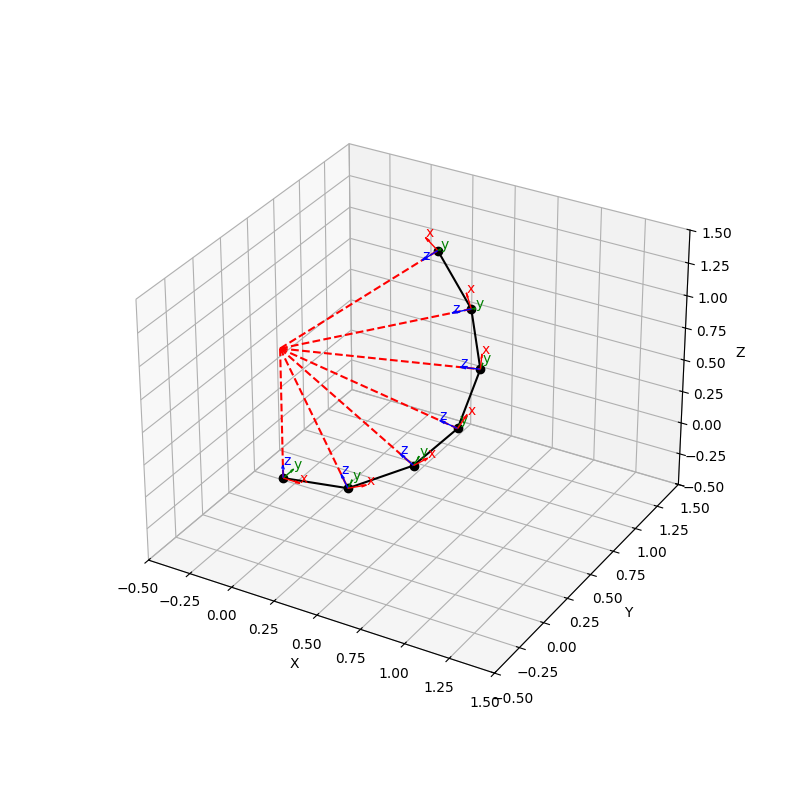
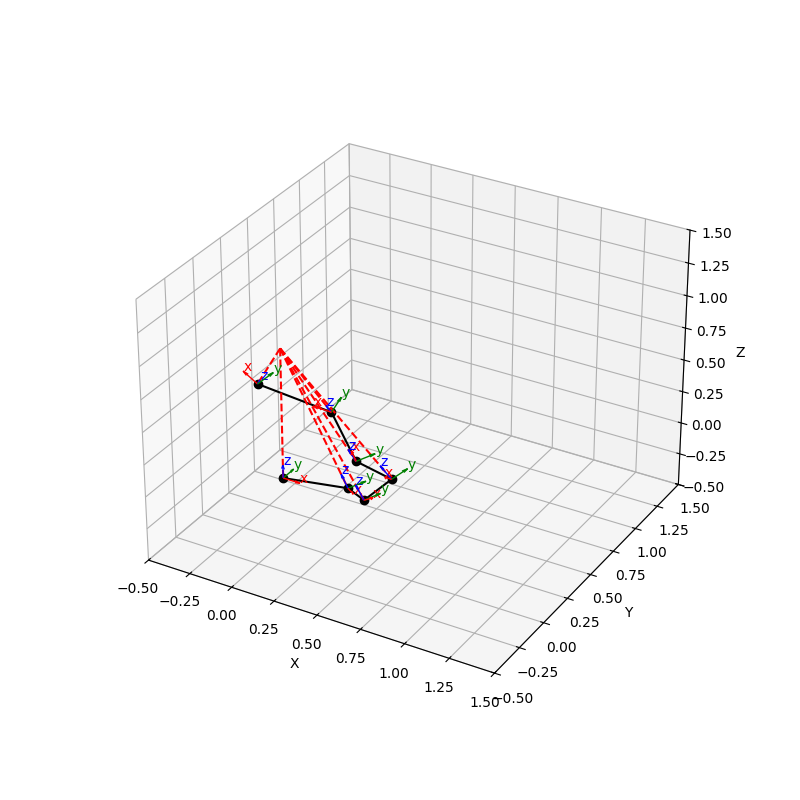
theta used as the external angle instead of the internal angle (as previously) to allow modelling of more extensive folding from state 2 (fin folded into foot) to state 3 (fully folded fin)

diff --git a/fin_transformation.py b/fin_transformation.py
@@ -7,12 +7,11 @@ Theory taken from: FORWARD KINEMATICS: THE DENAVIT-HARTENBERG CONVENTION
 https://users.cs.duke.edu/~brd/Teaching/Bio/asmb/current/Papers/chap3-forward-kinematics.pdf
 
 TODO
-Update geometric parameters calculated automatically (including fold angle) when number of rays is changed
 Folding to state 3
 Replace identity matrix with A0
 Add calculation of base coordinates to paper and diagram
+Model description with sketch in README 
 Do the working to check matrix product is correct
-Model description with sketh in README 
 """
 
 """
@@ -36,11 +35,10 @@ division_factor = 8
 Spacing between each toe 
 Choose one, comment out the other
 """
-# Equal spacing between each toe 
-spacing = n_rays   
+spacing = n_rays  # Equal spacing between each toe 
 
 # If division factor is greater, spacing used for this number of rays (smaller angle between toes)
-# spacing = division_factor
+spacing = division_factor
 
 
 def plot_fin(positions, rotations, fin_base, scale=0.5):
@@ -210,17 +208,27 @@ def transformation_matrix(beta, a, gamma, theta):
 def generate_transformation_params(beta, a, gamma, theta, spacing):
     """
     Generates the individual joint parameters to describe the fin folding 
+    from State 1 (fully open) to State 2 (folded)
     """
+    # # Set angles for inner and outer folds
+    # inner_angle = theta
+    # # outer_angle = -inner_angle * 1/2
+
+    # # Calculate outer angle to create equal spacing between fin rays  
+    # scale_factor = 1 - (4 / spacing)
+    # outer_angle = -inner_angle * scale_factor
+
     # Set angles for inner and outer folds
-    inner_angle = theta
-    outer_angle = -inner_angle * 1/2
+    outer_angle = theta
+    # outer_angle = -inner_angle * 1/2
 
     # Calculate outer angle to create equal spacing between fin rays  
-    scale_factor = 1 - (4 / n_rays)
-    scale_factor = 1 - (4 / (division_factor))
     scale_factor = 1 - (4 / spacing)
-    outer_angle = -inner_angle * scale_factor
-
+    inner_angle = -outer_angle / scale_factor
+    print('inner angle =', inner_angle)
+    # if round(inner_angle, 5) == round(pi, 5):
+    if inner_angle <= -pi:
+        inner_angle = -pi
 
     # Joint parameters for first two joints
     params = [(beta, a, gamma, inner_angle),
@@ -233,38 +241,6 @@ def generate_transformation_params(beta, a, gamma, theta, spacing):
     params = params * repeats
     
     return params
-
-
-# """
-# Number of fin rays
-# (Must be even number)
-# """
-# n_rays = 6
-
-# """
-# Size of each ray as multiple of pi
-# Division factor:
-# - can be greater than or equal to number of fin rays   
-# - must be even number
-# """
-# division_factor = 6
-
-# # Fin ray angle
-# ray_angle = 1/ray_division_factor
-
-
-# """
-# Spacing between each toe 
-# Choose one, comment out the other
-# """
-# # Equal spacing between each toe 
-# spacing = n_rays   
-
-# # If division factor is greater, spacing used for this number of rays (smaller angle between toes)
-# spacing = division_factor
-
-
-
 
 # Fin ray angle
 ray_angle = 1/division_factor
@@ -302,7 +278,7 @@ beta = -alpha/2
 # gamma = -pi/16
 gamma = -alpha/2
 
-# Iterate through a sequence of joint angles, from fully open fin, to fully folded
+# Iterate through joint angles describing poses from fully open fin (State 1) to folded (State 2)
 for i, theta in enumerate(np.linspace(0, pi, 10)):
 
     # Joint parameters for transformation matrix: beta, a, gamma, theta
